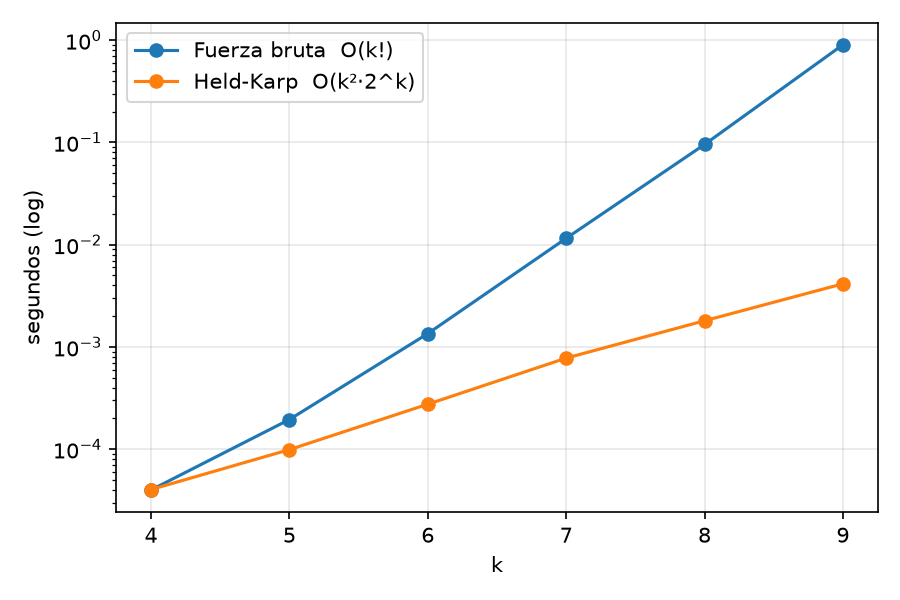
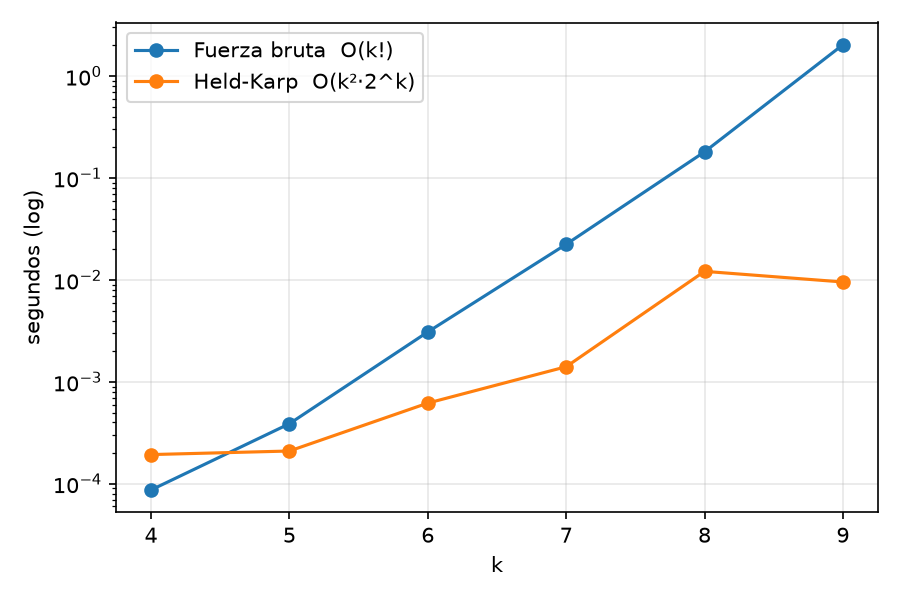
upddte de graficas

diff --git a/docs/RESULTADOS.md b/docs/RESULTADOS.md
@@ -2,22 +2,22 @@
 
 |   n | estrategia   |   costo_total |   distancia_km |   pct_atendidos |   tiempo_ejecucion_s |
 |----:|:-------------|--------------:|---------------:|----------------:|---------------------:|
-|  20 | dc_pd        |        408.51 |         183.5  |           86    |                 0    |
+|  20 | dc_pd        |        408.51 |         183.5  |           86    |                 0.02 |
 |  20 | voraz        |        429.77 |         127.26 |           69    |                 0    |
-|  50 | dc_pd        |        993.9  |         380.35 |           92.4  |                 0.02 |
+|  50 | dc_pd        |        993.9  |         380.35 |           92.4  |                 0.12 |
 |  50 | voraz        |       1117.95 |         346.29 |           87.2  |                 0    |
-| 100 | dc_pd        |       1834.42 |         640.73 |           95    |                 0.05 |
-| 100 | voraz        |       2016.92 |         651.77 |           97.8  |                 0    |
-| 150 | dc_pd        |       2391.01 |         842.06 |           90.93 |                 0.02 |
-| 150 | voraz        |       2140.85 |         586.78 |           77.33 |                 0    |
-| 200 | dc_pd        |       2319.23 |         766.47 |           69.1  |                 0.1  |
-| 200 | voraz        |       2144.23 |         564.16 |           65.7  |                 0.01 |
+| 100 | dc_pd        |       1834.42 |         640.73 |           95    |                 0.17 |
+| 100 | voraz        |       2016.92 |         651.77 |           97.8  |                 0.01 |
+| 150 | dc_pd        |       2391.01 |         842.06 |           90.93 |                 0.08 |
+| 150 | voraz        |       2140.85 |         586.78 |           77.33 |                 0.01 |
+| 200 | dc_pd        |       2319.23 |         766.47 |           69.1  |                 0.34 |
+| 200 | voraz        |       2144.23 |         564.16 |           65.7  |                 0.02 |
 
 ## Efecto de k (n = 100)
 
 |   k |   costo_total |   pct_atendidos |   tiempo_ejecucion_s |
 |----:|--------------:|----------------:|---------------------:|
-|   8 |       2120    |          94.333 |                0.002 |
-|  10 |       2120    |          94.333 |                0.002 |
-|  12 |       1840.83 |          95     |                0.059 |
-|  14 |       1495.57 |          93.333 |                0.161 |
+|   8 |       2120    |          94.333 |                0.008 |
+|  10 |       2120    |          94.333 |                0.008 |
+|  12 |       1840.83 |          95     |                0.203 |
+|  14 |       1495.57 |          93.333 |                0.577 |
